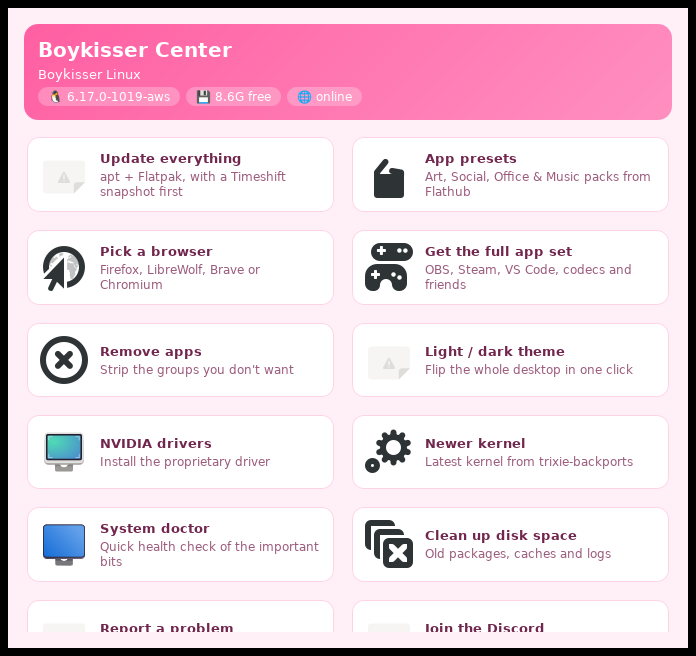
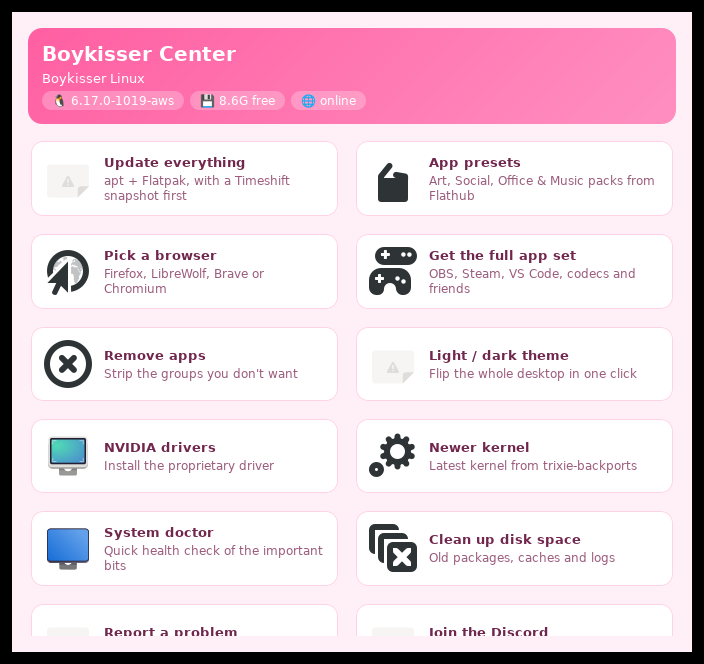
fix: full screenshot (no clip), pink category headers in docs nav

diff --git a/styles.css b/styles.css
@@ -392,15 +392,19 @@ pre code { color: var(--ink); font-size: 0.88rem; }
 .docs-sidebar nav a:hover { color: #fff; background: var(--surface); }
 .docs-sidebar nav .nav-category {
   display: block;
-  padding: 1rem 0.8rem 0.3rem;
-  font-size: 0.7rem;
-  font-weight: 700;
+  margin: 1.1rem 0 0.25rem;
+  padding: 0.3rem 0.7rem;
+  font-size: 0.65rem;
+  font-weight: 800;
   text-transform: uppercase;
-  letter-spacing: 0.1em;
-  color: var(--muted);
+  letter-spacing: 0.12em;
+  color: var(--pink-soft);
+  border-left: 2px solid var(--pink);
+  background: rgba(255,95,162,0.07);
+  border-radius: 0 6px 6px 0;
   pointer-events: none;
 }
-.docs-sidebar nav .nav-category:first-child { padding-top: 0.3rem; }
+.docs-sidebar nav .nav-category:first-child { margin-top: 0; }
 .docs-sidebar nav a.active {
   color: var(--pink-soft);
   background: var(--surface);
